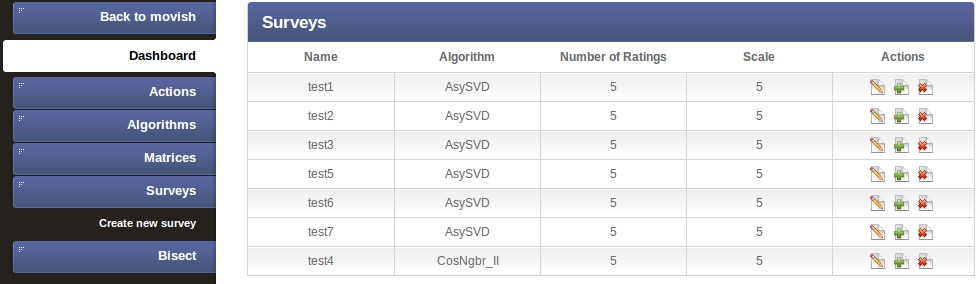
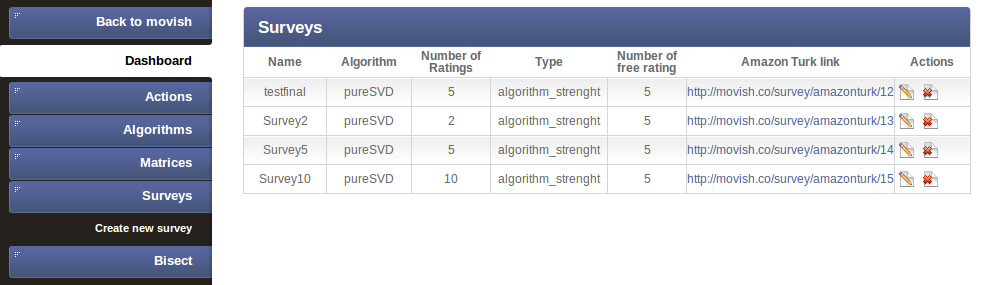
chapter 5 finished, 92 pages!

diff --git a/chapters/ch5.tex b/chapters/ch5.tex
@@ -5,22 +5,132 @@
 \section{Introduction}
 \label{sec:survey_management_introduction}
 
+In this chapter we will analyze, in depth, how to perform, create and add a new type of survey in the system. Movish is indeed a complex system that can be used as a plain movie catalog or as a survey system. When in survey mode, the system changes smoothly the layout in order to guide the user through the questions and removes many not useful links that would bring the user out of the application or in some undefined states that are only valid when browsing the catalog without performing a survey.
+
+Guiding a user while performing a survey is a challenge. The survey must be designed such that the user doesn't waste time in not useful operation but it is still free to browse, search and rate any content the user wants in order of not alter the recommendation. The user must be guided in order to focus his/her attention in what is the survey goal also. This makes planning a new type of survey a challenge and a task that requires a lot of thinking before being able to implement one. 
+
+Movish simplifies the process of adding a new type of survey, that i exposed in secion \ref{sec:adding_new_survey_type_to_Movish} while survey creation is exposed in section \ref{sec:survey_creation} with the two types of survey supported, the algorithm performance and the algorithm strength.
+
 \section{Survey creation}
 \label{sec:survey_creation}
+
+The creation of a survey is the action of adding a survey to the system and perform all the necessary operations that make the system able to accept new user or existing ones to perform the survey. A user with administration privileges is needed to make a new survey. After logged in the user has to go to the admin interface explained in secion \ref{sec:admin_interface}.
+
+\begin{figure}
+  \centering
+  \includegraphics[width=\textwidth]{figures/survey_creation.png}
+  \caption{Survey creation}
+  \label{fig:survey_creation}
+\end{figure}
+
+Figure \ref{fig:survey_creation} shows the form to create a new survey. The administrator has to pick up a name, an algorithm name (from the list), a number of ratings representing the number of ratings that will be displayed to the user while being in the recommendation part of a survey; the scale of the rating, the number of free ratings the user is able to perform before receiving the recommendation; the survey type that can be \textbf{algorithm\_performance} or \textbf{algorithm\_strength}. We will talk about these two types in the next subsections. The administrator can optionally add a set of comma separated emails of the user that will be notified with a mail that there is a survey for them. Users that are not in the system will be added and a mail will be sent as well. After submitting the form the task of creating a new survey is created. 
+
+In general, any user can perform the surveys that are in the system if the user knows the id of the survey. The entry point for each user is in fact \textit{survey/demographic/ID} where ID is the id of the survey. The user must be logged in to access that resource. In the case the user is not registered, it has to register first. To remove this additional step which is mandatory for the recommendation engine to work but may be a problem for a user that is just on the site to perform a survey a special handler that creates a user to the system and start the survey has been created. It can be accessed from \textit{http://movish.co/survey/amazonturk/ID} where ID is the id of the survey. The administrator can see the id of the survey looking at the last number of the \textit{amazon turk link} column in the survey menu in figure \ref{fig:surveys_menu}.
+
+Users have not be bounded to a particular survey in order to allow the administrator to select other users while the survey in progress and to allow the Amazon Mechanical Turk \cite{amazon-mechanical-turk} cooperation. We will talk more about amazon mechanical turk on secion \ref{sec:crowdsourcing}. As for now the reader can think of amazon mechanical turk as a service offered by amazon to provide human workforce for tasks that are able to be performed with a computer. Online surveys are a typical case of this kind of work.
+
+Result of the surveys can be retrieved in the survey admin page shown in figure \ref{fig:surveys_menu}. Clicking on the small icon with a pencil with a label of ``download result'' the administrator can get the results of the survey in \ac{csv} format.
+
+\begin{figure}
+  \centering
+  \includegraphics[width=\textwidth]{figures/movish_survey_architecture.jpg}
+  \caption{Survey architecture: relation between functions}
+  \label{fig:survey_architecture}
+\end{figure}
+
+Figure \ref{fig:survey_architecture} shows the survey subsystem architecture. The user starts from the \textbf{start} box and ends in the \textbf{end} box. The start can happen from the \textit{amazonturk} link ad described earlier or by direct invite at survey creation, in that case the user goes directly to \textbf{demographic}. After filling the form the user is redirected in a modified homepage without the possibility to logout and without a the main slider with only the possibility to surf the catalog and search for movies. This step is called \textbf{free ratings} and the user has to rate the number of ratings that the admin specified as \textit{number of free ratings} in survey creation. After the user has to answer a series of question regarding the catalogue. This phase is performed by the function \textbf{catalogue\_questions}. From now the behaviour of the system depends from the type of survey. As for now two types of surveys are implemented and they are performed by \textbf{algorithm\_strength} and \textbf{algorithm\_performance} respectively. \textbf{catalogue\_questions} is able to fetch the survey type and redirect the user to the correct page generated by the correct survey type. All survey types, after performing the recommendation must redirect to the \textbf{local\_info} function that take cares of asking the last questions to the user and redirect him/her to the \textbf{end\_survey} page. The end survey page exposes the Amazon Mechanical Turk confirmation code that the user has to submit to the amazon form in order to claim the survey that is just being completed. 
 
 \subsection{Algorithm performance}
 \label{sec:algorithm_performance}
 
-\subsection{Algorithm strenght}
+Algorithm performance is the first type of survey that has been implemented. It shows the recommendation to the user displaying one movie at time and asking him/her subsequent questions. The questions that the user answers are contextual, it means that they vary depending from the previous questions. The main goal is to give to the user all the information in order to make him/her able to rate the movie even if he/she did not actually watched the movie.
+This was the first type of survey and the only one implemented in Milo \cite{thesis-andreia}. The flow chart in figure \ref{fig:algorithm_performance_flow_chart} shows the questions that the user has to answer and their order.
+
+\begin{figure}
+  \centering
+  \includegraphics[width=\textwidth]{figures/algorithm_performance_flow_chart.png}
+  \caption{Algorithm performance flow chart}
+  \label{fig:algorithm_performance_flow_chart}
+\end{figure}
+
+The user starts from the \textbf{start} box and ends at the \textbf{end} box. As the reader can verify the user may not answer all the questions or get all the information before getting to the \textbf{end} box.
+
+\subsection{Algorithm strength}
 \label{sec:algorithm_strenght}
+
+Algorithm strength is the second type of survey that Movish supports. It has been deployed to perform the research of chapter \ref{chapter:<research_puresvd_strenght>}. In this type of survey the user gets a recommendation and the user can see the first Nth elements where N is the \textit{number of ratings} that the administrator set at survey creation. The system then asks some question about the recommendation to the user, the questions are:
+
+\begin{itemize}
+\item How many movies in this list have you ever watched?
+\item How many movies in this list have you never heard of?
+\item From the movies in this list that you have already watched, if any, how many do you like?
+\item From the movies in this list that you have already watched, if any, how many do you dislike? (leave 0 if no one)
+\item From 1 (low interesting) to 5 (very interesting) how interesting did you find the given recommendations?
+\item How many movies in this list will you likely watch in the future?
+\end{itemize}
+
+This kind of survey is used to test how the perception of a good recommendation relates with the number of item shown to the user in order to understand how strong is an algorithm and in general how the number of items displayed to the user influences his/her perception of a good recommendation.  
 
 \section{Adding new survey type to Movish}
 \label{sec:adding_new_survey_type_to_Movish}
 
+Adding a new survey to the system is a easy task which needs a bit of understanding in how the movish system works. Movish support a set of predefined questions that are the same for each survey and a variable set of questions and recommendation pages that can be composed and chained easily by the administrator. All the survey subsystem is defined in \textit{controllers/survey.py}. Each survey page is generated by three steps:
+
+\begin{itemize}
+\item \textbf{form definition}. Where the form that the user has to answer is defined using web2py \cite{web2py} helpers. Web2py helpers are function that produce a html code snippet accordingly. They are used to generate html on the controller or in the view itself.
+\item \textbf{form submission}. Where the form that the user answered get submitted and saved in a database.
+\item \textbf{data retrieval}. Where the data that is shown to the user during a particular survey page is retrieved.
+\end{itemize}
+
+Figure \ref{fig:algorithm_strength} shows how the \textit{algorithm\_strength} survey type is implemented. It shows clearly where the different parts of the survey page are composed. The first 13 lines, from 192 to 206 are for data retrieval. In those lines the recommendation for the given algorithm of the survey is retrieved. If there is no recommendation available for the current user in the given algorithm a new recommendation is scheduled and the system waits 5 seconds before reloading the same page and check that there is a recommendation. Lines from 207 to 215 are for form definition. The form is mainly formatted with a table in which there are select fields. The \textit{\_name} property is very important because it defines the name that will be displayed when the administrator retrieves the survey results.  
+
+\begin{figure}
+  \centering
+  \includegraphics[width=\textwidth]{figures/algorithm_strength.png}
+  \caption{Adding new algorithm: algorithm\_strength example}
+  \label{fig:algorithm_strength}
+\end{figure}
+
+Last lines, from 216 to 224, are for form submission. If the form is recognized to have valid data (accepted) the form data is added to the database using the special \textbf{\_form\_in\_db} function that having a form and a survey id adds the answers that the user provided to the database. Using this function every form created with web2py helpers can be recognized, parsed and stored into database. After saving the data to the database the user is redirected to the last question with the \textit{redirect(URL('local\_info'))} line. Each algorithm type, after processing the data must call this redirect in order to let the user finish the survey.
+
 \section{Crowdsourcing}
 \label{sec:crowdsourcing}
 
+Crowdsourcing \cite{crowdsourcing} is a process that involves outsourcing tasks to a distributed group of people. This process can occur both online and offline. The difference between crowdsourcing and ordinary outsourcing is that a task or problem is outsourced to an undefined public rather than a specific body, such as paid employees.
+
+Amazon Mechanical Turk \cite{amazon-mechanical-turk} is a marketplace for work. It gives businesses and developers access to an on-demand, scalable workforce. Workers select from thousands of tasks or \ac{HIT} and work whenever it is convenient. The service has two kind of users: workers and requester.
+
+\begin{itemize}
+\item \textbf{Requester}. Asks workers to completer HITs and gets results. Requesters have access to a global 24x7 workforce, get thousands of HITs completed in minutes, and pay only when you are satisfied with the results.
+\item \textbf{Worker}. Are the people that perform the HITs. Workers can work from everywhere with an internet connection, choose their work hours and get paid for doing good work.
+\end{itemize}
+
+Movish has been designed to work with Amazon Mechanical Turk. After the survey has been created, in the survey list page of figure \ref{fig:surveys_menu}, the administrator has an \textit{Amazon Turk link} which is the link to provide to the Amazon Mechanical Turk interface. The suggested way of integrating Movish with the amazon service is by survey link which is described in their webpage as figure \ref{fig:amazon_turk_survey_link} shows. The administrator has to create a new survey link and use the link provided from the movish admin interface.
+
+\begin{figure}
+  \centering
+  \includegraphics[width=\textwidth]{figures/amazon_turk_survey_link.png}
+  \caption{Amazon Mechanical Turk survey link type}
+  \label{fig:amazon_turk_survey_link}
+\end{figure}
+
+After the HIT has been started from Amazon Mechanical Turk, the administrator can monitor the status of all the HITs from the management console shown in figure \ref{fig:surveys_on_turk}. In that picture the status of the three surveys that I performed during this thesis are shown. We will talk more about them on chapter \ref{chapter:<research_puresvd_strenght>}.
+ 
+\begin{figure}
+  \centering
+  \includegraphics[width=\textwidth]{figures/amazon_turk_surveys.png}
+  \caption{Surveys on Amazon Mechanical Turk}
+  \label{fig:surveys_on_turk}
+\end{figure}
+
+Thanks to the integration with Amazon Mechanical Turk, Movish is able to be a platform to perform surveys without the admin having to worry in promoting the survey which is usually a time consumptive tasks. Based on the amount of work for a survey and the time spent on it (5 minutes and 31 seconds average) the correct pay for a Movish survey HIT is about \$1.50. Having set \$2 as pay for each survey made the system get 10 surveys in less than 3 hours. This has an effective hourly rate for the worker of \$21.687. Having set \$1 as pay for each survey made the system collect 10 surveys after three days with an average of 6 minutes and 56 seconds per survey and an effective hourly rate of \$8.654.
+
 \section{Conclusions}
 \label{sec:survey_management_conclusions}
+
+Movish implements a flexible and easy to update survey system. It has being designed in order to support continue modification of the survey types and creation of new surveys. The survey creation has been thought to be performed by an administrator in order to do not modify any line of code. New survey types are easily added with a slightly edit of source code. 
+The integration with Amazon Mechanical Turk makes Movish able to also promote itself to reach users thus have completed survey. Using Movish an recommendation system professional can deliver survey without worrying about seeking for users and visibility. 
+
+These features make Movish the best system to deploy survey for recommendation system available today.
 
 \acresetall

diff --git a/chapters/ch4.tex b/chapters/ch4.tex
@@ -227,19 +227,99 @@ Tor \cite{tor} is a network of virtual tunnels that allows people and groups to 
 
 In movish, tor represent the crawler thanks to whom the importer can communicate to imdb.com and youtube.com in an anonymous way using different ip addresses every 10 minute in order to overcome to the bandwidth limitation that those two website impose to their users. Without this proxy the required time to create a useful dataset would require almost a year.
 
-PUT IMAGE HERE ABOUT CONFIGURATION OF THE CRAWLER
+\begin{figure}
+  \centering
+  \includegraphics[width=\textwidth]{figures/crawler_setting_code.png}
+  \caption{Importer setting the crawler as a gateway code}
+  \label{fig:importer_setting_crawler}
+\end{figure}
+
+Figure \ref{fig:importer_setting_crawler} shows a small snippet of code from the \textbf{Importer} that sets up the \textbf{Crawler} as a proxy to reach both youtube and imdb. The code exposed is located at file named \textit{modules/importer.py} at line 125. Thanks to the urllib2 python library flexibility it is possible to configure each request to use a proxy creating an \textit{opener} object. Last line adds an user agent signature to each request to act like a real user opening the requested page.
 
 \subsection{Recommendation engine}
 \label{sec:recommendation_engine}
 
+The recommendation engine is the section of the application responsible of making and retrieve recommendations using a Matlab \cite{matlab} engine. It was one of the constraints of the system since Milo because all the algorithms developed by the research group at Politecnico di Milano are implemented using that program. Matlab is heavily used in many courses at Politecnico di Milano and many other universities around the world, the Netflix competition \cite{netflixprize} was also released using Matlab .mat files.
+
+There is one single file in which matlab is imported and used in the entire system and it is in the \textit{modules/matlab\_wrapper.py}. The file contains mainly a object called \textbf{Whisperer}. This object exports all the function to create the matlab matrices \ac{ICM} and \ac{URM}, the titles and features vectors, the model for each supported algorithm and the recommendation for a given user. The object is also able to talk with the database in order to retrieve the correct data.
+
+\begin{figure}
+  \centering
+  \includegraphics[width=\textwidth]{figures/urm_and_icm_creation.png}
+  \caption{URM and ICM creation}
+  \label{fig:urm_and_icm_cration}
+\end{figure}
+
+Figure \ref{fig:urm_and_icm_cration} shows a snippet used for the \ac{URM} and \ac{ICM} generation. The variables are inserted in the matlab environment thanks to the \textit{self.\_put()} function while the matlab commands are run thanks to the \textit{self.\_run()} function. One of the big improvements of this piece of the application compared to Milo is the optimization performed at memory level by replacing matrices with sparse matrices. This change imposed a change in the whole way the matrices are managed but it was able to drop memory requirements from 80Gb to 3Gb of \ac{RAM}. After the matrices are computed they are stored in Matlab .mat files for easy retrieval from the admin interface exposed in section \ref{sec:admin_interface}.
+
+Each function that deals with matlab uses a \textbf{@matlab} python decorator. A decorator in python is a function that is applied to other functions. In this case the @matlab decorator ensures that the function that will be called using matlab will find a clear environment from other variables. This enhancement prevent the system from keep loading and unloading matlab environments for each function to call. The system keeps a single matlab session ready for each function, each function that is called cleans the environment after it exits thanks to the decorator instead.
+
+\begin{figure}
+  \centering
+  \includegraphics[width=\textwidth]{figures/create_model.png}
+  \caption{Create model code}
+  \label{fig:create_model}
+\end{figure}
+
+Figure \ref{fig:create_model} shows the code to create a model. As you can see the action is performed by two functions. The first one called \textbf{create\_model} ensures that the \ac{URM} and the \ac{ICM} are created. It thus calls the \textbf{\_create\_model} function that manages a matlab session, this is why it has the \textbf{@matlab} decorator, and performs the actual recommendation calling the right function name for the given algorithm in order to create the model.
+
+The recommendation is done in a similar way of the model creation from the \textbf{get\_rec} function. It accepts three parameters being the algorithm name and the user id. It then retrieve the user profile and performs the recommendation for the given algorithm if a model exists.
+
+\begin{figure}
+  \centering
+  \includegraphics[width=\textwidth]{figures/matlab_algorithms_tree.png}
+  \caption{Matlab algorithm tree structure}
+  \label{fig:matlab_tree_structure}
+\end{figure}
+
+The recommendation engine has also an auto discovery functionality of new algorithms. When generating the lists of algorithms it simply looks in the \textit{modules/algorithms/recsys\_matlab\_codes/algorithms/} directory and look for files which name that starts with \textbf{onLineRecom}. In fact all the algorithm have the form of \textit{onLineRecom\_algorithm.m}. For each algorithm found, the relative model creation function is looked up searching in the same directory of the algorithm for a \textit{createModel\_algorithm.m}. That file contains the function to generate the model for a given algorithm. Figure \ref{fig:matlab_tree_structure} shows the matlab algorithms tree structure. Each algorithm is categorized to be collaborative, content based or non personalized. For each class of algorithms, there are all the relevant sub classes.
+
+All the computations that result in a creation of a file for matlab store the newly created file in the \textit{modules/elaborated\_models/}.
+
 \section{Structure}
 \label{sec:structure}
+
+The project structure is based on web2py \cite{web2py} one. The project has been published on GitHub \cite{github}. GitHub defines itself like ``the best place to share code with friends, co-workers, classmates, and complete strangers. Over two million people use GitHub to build amazing things together''. GitHub is a webapp designed to share code using the git \cite{git-scm} revision control system. The application is composed mainly by the controllers, views, static, modules and models directory. All the other directories are the basic template of a web2y application.
+
+\begin{itemize}
+\item \textbf{controllers} directory contains all the controllers of the application. \textit{admin.py} defines the controllers of the admin interface \ref{sec:admin_interface} with all the functions and the actions that the administrator can perform. \textit{default.py} is the default controller which is called when the homepage is called. it has the \textit{index} function that perform the basic visualization of the list of movies. \textit{movie.py} is the controller for displaying the details of a movie. \textit{rating.py} is the controller that takes care of performing ratings for a movie. This last controller is different from the other since it is designed to works as a module for other controllers. In fact the rating of a movie is always associate with a movie, so this controller is responsible of generating the correct stars indicating the rating and load the previous rating for a movie if the user already gave a rating for that movie. \textit{survey.py} is the controller that handles all the survey creation.
+\item \textbf{models} directory contains all the data structures used in the application. The \textit{db.py} defines all the database structure the reader can have a look to the ER diagram on section \ref{sec:movish}. \textit{menu.py} defines the context menu that is displayed to the user. It is the menu on top on the black line which never changes and is the landmark for the user. \textit{scheduler.py} this file defines the scheduler tasks. It uses the web2py automatic task discovering features to add the functions to the scheduler. We analyzed the code of the scheduler on secion \ref{sec:scheduler}. \textit{whisperer.py} contains all the function that are called by the application to schedule tasks of the scheduler. Thanks to this file adding a task to the scheduler is easy like calling a function.
+\item \textit{modules} directory contains all the matlab algorithm under the  \textit{algorithms} directory and all the models under \textit{elaborated\_models}. The \textit{countries.py} file defines the list of all countries in the world used by the surveys while asking the demographic data. \textit{importer.py} defines the Importer we talked in section \ref{sec:importer}. \textit{matlab\_wrapper.py} is the only file that interact with the matlab engine, thus is the only file that imports pymatlab \cite{pymatlab}. \textit{metadata.py} is the file used to set up the python \ac{nltk} \cite{nltk}. Nltk is a leading platform for building Python programs to work with human language data. It provides easy-to-use interfaces to over 50 corpora and lexical resources such as WordNet, along with a suite of text processing libraries for classification, tokenization, stemming, tagging, parsing, and semantic reasoning. Nltk is used by Movish to perform plot tagging and extract the metadata for the movie. These metadata are useful for the \ac{ICM} generation as explained in section \ref{sec:Input}.
+\item \textit{static} directory contains all the static content of the application. Mainly all the css the the images.
+\item \textbf{views} directory contains all the html files that are used for outputting the data generated by the controllers to the user.
+\end{itemize}
 
 \section{Dataset}
 \label{sec:dataset}
 
+The initial dataset used for milo was the one used for the netflix competition \cite{netflixprize} but since it was released in 2001 it was soon figured out that it was pretty outdated and not useful for real recommendations with users. This is why in milo there were a basic importer to get the informations from the imdb.com website. That importer was only able to retrieve basic information. In movish the importer is now able to parse imdb.com directly, to talk to imdb thanks to the imdbpy \cite{imdbpy} library and to parse youtube pages directly. It is also able to parse all reviews in different pages of a movie and get the ratings.
+
+Having this powerful importer, during three continuous months of scraping the imdb.com website, the majority of movies from the 1950 until now have been imported in the system. Resulting in 154606 distinc titles and 106266 distinct users as for Nov 23th 2012. In order to keep the datased up to date, the admin can create a task of updating all the movies via the admin interface explained in secion \ref{sec:admin_interface}. The system is also able to automatically detect if a movie has not all the information and schedules a task for updating the movie information as explained in figure \ref{fig:movie_update}.
+
+\begin{figure}
+  \centering
+  \includegraphics[width=\textwidth]{figures/auto_update_movie.png}
+  \caption{Automatically schedule a movie information update}
+  \label{fig:movie_update}
+\end{figure}
+
+When the movie is displayed if the year field is missing or if the poster of the movie is not defined, the movies is then scheduled for an update. The system also provide a cronjob to automatically fetch new reviews and new movies that are going to be released in the next five years or that have been released in the past five years. This ensures that the system has up to date movies an reviews from imdb distributing the load of updating the dataset during time.
+
+This is one of the biggest improvement from ContentWise \cite{ContentWise} and enables new scenario and integration with other realtime or up to date system such as Facebook and Twitter.
+
 \section{Conclusions}
 \label{sec:movish_system_conclusions}
 
+Movish is an extensible fully automatic recommendation survey system for movies. Thanks to its fundamental in bleeding edge technologies and functionalities it is able of self updating the dataset, perform async recommendations, and having a good look and feel thanks to the simple interface. It's architecture is composed by many independent pieces that collaborates each other as explained in section \ref{sec:architecture} minimizing the point of failures that were one of the main problems in Milo. 
+
+There are some factor that may limit the evolution of Movish in the long term:
+
+\begin{itemize}
+\item \textbf{Matlab dependence}. Having a matlab engine to support existing algorithms was a goal of the project but matlab has been proved, during the movish implementation, that it is not suitable for real time recommendation systems since it requires too many resources and it is too slow compared to native python implementation. In fact if the recommendation algorithms were implemented in python the system would require much less resources and be much faster than it is now. So in the future developing an alternate recommendation engine, maybe in python, would be very helpful and would not impact with the overall system.
+\item \textbf{Improved security}. As for now all the communication with the server is performed via insecure http connections. Switching to https would protect user data transferred over the internet and block password hijacking attempts.
+\item \textbf{Improve sources}. As for now only imdb.com and youtube.com are used as sources. Even if they are the most comprehensive sources available there are many more sources with ratings online that could be imported in the system to perform better recommendations.
+\end{itemize}
+
+In this chapter we didn't talk about survey management. Since it is another big feature of the web application, chapter \ref{chapter:<survey_management>} will explain how Movish handles surveys, how to create one and how to add a new type of survey.
 
 \acresetall

diff --git a/title/title.tex b/title/title.tex
@@ -22,8 +22,8 @@
 \textbf{POLITECNICO DI MILANO} \\
 \Large
 Facolt\`a di Ingegneria dell'Informazione \\
-Corso di Laurea in Ingegneria Informatica
-%Corso di Laurea Specialistica in Ingegneria Informatica
+%Corso di Laurea in Ingegneria Informatica
+Corso di Laurea Specialistica in Ingegneria Informatica
 %Corso di Laurea Magistrale in Ingegneria Informatica
 \end{center}
 
@@ -37,15 +37,15 @@ Corso di Laurea in Ingegneria Informatica
 \addvspace{0.75cm}
 \begin{center}
 \LARGE
-\textbf{<TITLE>}
+\textbf{Automatic recommendation survey system: Movish}
 \end{center}
 
 \addvspace{4cm}
 \Large
 \begin{center}
 \begin{tabular}{p{0.65\textwidth}p{0.3\textwidth}}
-Relatore: Prof. <Nome> <COGNOME> & \\
-Correlatore: Prof. <Nome> <COGNOME> & \\
+Relatore: Prof. Paolo Cremonesi & \\
+Correlatore: Prof. Leonardo Bruni & \\
 \end{tabular}
 \end{center}
 
@@ -54,15 +54,15 @@ Correlatore: Prof. <Nome> <COGNOME> & \\
 \begin{center}
 \begin{tabular}{p{0.65\textwidth}p{0.3\textwidth}}
 & Tesi di Laurea di: \\
-& <Nome> <COGNOME> \\
-& Matricola n. xxxxxx
+& Vincenzo Ampolo \\
+& Matricola n. 750336
 \end{tabular}
 \end{center}
 
 \vfill
 \Large
 \begin{center}
-Anno Accademico 20xx--20xx
+Anno Accademico 2012--2013
 \end{center}
 
 \end{titlepage}

diff --git a/frontmatter/abbreviations.tex b/frontmatter/abbreviations.tex
@@ -9,6 +9,10 @@
 \acro{DAL}{Database Abstraction Layer}
 \acro{SQL}{Structured Query Language}
 \acro{ER}{Entity Relationship model}
+\acro{RAM}{Random Access Memory}
+\acro{nltk}{Natural Language Toolkit}
+\acro{HIT}{Human Intelligence Tasks}
+\acro{csv}{Comma separated values}
 \end{acronym}
 
 \acresetall
